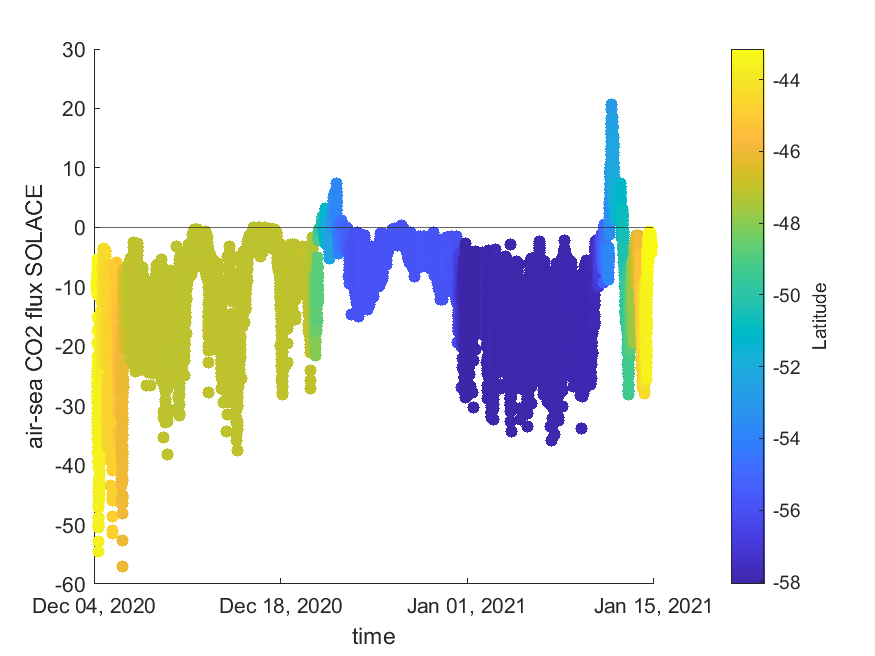
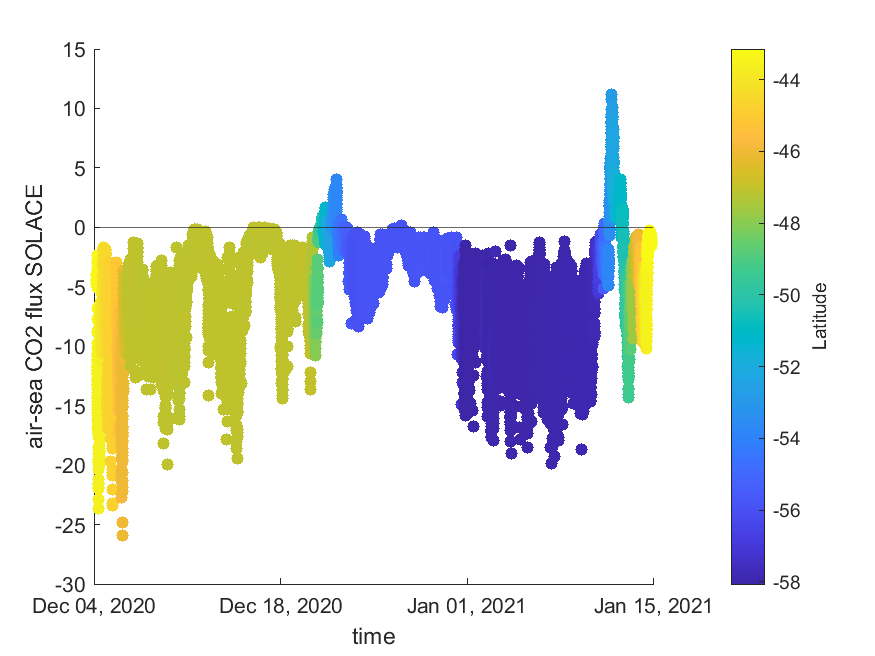
more work

diff --git a/SOTS2021_UW_CO2.m b/SOTS2021_UW_CO2.m
@@ -1,7 +1,9 @@
 file = 'C:/Users/cawynn/cloudstor/Air sea flux manuscript/IN2021_V02 SOTS/IMOS_SOOP-CO2_GST_20210414T121956Z_VLMJ_FV01.nc';
 DfCO2_SOTS2021 = ncread(file, 'DfCO2');
 DfCO2_QC_SOTS2021 = ncread(file, 'DfCO2_quality_control');
-u_SOTS2021 = ncread(file,'WSPD');
+u_SOTS2021 = ncread(file,'WSPD'); % this is at 24.7m and needs correcting to 10m, as per Sutton, 2017
+u10_SOTS2021 = u_SOTS2021/(1+(sqrt(0.0011)/0.4)*log(24.7/10));
+
 lat_SOTS2021 = ncread(file, 'LATITUDE');
 lon_SOTS2021 = ncread(file, 'LONGITUDE');
 pressure_SOTS2021 = ncread(file, 'Press_ATM');
@@ -16,7 +18,7 @@ sss_SOTS2021 = S_SOTS2021;
 sst_SOTS2021 = T_SOTS2021;
 
 
-[F_CO2_SOTS2021]=FCO2_CWE(DfCO2_SOTS2021,T_SOTS2021,S_SOTS2021,u_SOTS2021);
+[F_CO2_SOTS2021]=FCO2_CWE(DfCO2_SOTS2021,T_SOTS2021,S_SOTS2021,u10_SOTS2021);
 
 
 % fig = figure()
@@ -36,3 +38,23 @@ c=colorbar;
 c.Label.String = 'Air sea flux';
 title('SOTS 2021 UW data')
 caxis([-70 30])
+
+figure()
+subplot(2,1,1)
+title('SOTS 2021 UW data')
+yyaxis left
+plot(time_SOTS2021,lat_SOTS2021,'-r')
+ylabel('Latitude')
+yyaxis right
+plot(time_SOTS2021,lon_SOTS2021,'-b')
+ylabel('Longitude')
+xlabel('Time')
+
+subplot(2,1,2)
+yyaxis left
+plot(time_SOTS2021,F_CO2_SOTS2021,'ok','MarkerSize',2)
+ylabel('Air-sea CO2 flux mmol m^-2 d^-1')
+yyaxis right
+plot(time_SOTS2021,T_SOTS2021,'-b')
+ylabel('SST')
+xlabel('Time')

diff --git a/air_seaflux_floats.m b/air_seaflux_floats.m
@@ -168,13 +168,37 @@ for i = 1:fs(2)
 end
 
 
+% figure()
+% geoscatter(fCO2_float.lat, fCO2_float.lon, datenum(fCO2_float.time)/4000, fCO2_float.flux,'^')
+% hold on
+% geoscatter(lat_SOLACE, lon_SOLACE, datenum(time_SOLACE)/6000, F_CO2_SOLACE,'.')
+% colorbar
+
+% figure()
+% scatter(fCO2_float.time, fCO2_float.flux,'o')
+
 figure()
-geoscatter(fCO2_float.lat, fCO2_float.lon, datenum(fCO2_float.time)/4000, fCO2_float.flux,'^')
+subplot(2,1,1)
+title('SOTS float and SOLACE UW data')
+yyaxis left
+plot(time_float,lat,'-b')
 hold on
-geoscatter(lat_SOLACE, lon_SOLACE, datenum(time_SOLACE)/6000, F_CO2_SOLACE,'.')
-colorbar
+plot(time_SOLACE,lat_SOLACE,'--b')%,'MarkerSize',2)
+ylabel('Latitude')
+hold off
+yyaxis right
+plot(time_float,lon,'-r')
+hold on
+plot(time_SOLACE,lon_SOLACE,'--r')%,'MarkerSize',2)
+ylabel('Longitude')
+hold off
+xlabel('Time')
 
-figure()
-scatter(fCO2_float.time, fCO2_float.flux,'o')
-
-
+subplot(2,1,2)
+yyaxis left
+plot(fCO2_float.time, fCO2_float.flux,'ob','MarkerSize',4)
+hold on
+plot(time_SOLACE,F_CO2_SOLACE,'-r')
+ylabel('Air-sea CO2 flux mmol m^-2 d^-1')
+hold off
+xlabel('Time')

diff --git a/SOTS2020_UW_CO2.m b/SOTS2020_UW_CO2.m
@@ -1,7 +1,9 @@
 file = 'C:/Users/cawynn/cloudstor/Air sea flux manuscript/IN2020_V09 SOTS/IMOS_SOOP-CO2_GST_20200827T030011Z_VLMJ_FV01.nc';
 DfCO2_SOTS2020 = ncread(file, 'DfCO2');
 DfCO2_QC_SOTS2020 = ncread(file, 'DfCO2_quality_control');
-u_SOTS2020 = ncread(file,'WSPD');
+u_SOTS2020 = ncread(file,'WSPD'); % this is at 24.7m and needs correcting to 10m, as per Sutton, 2017
+u10_SOTS2020 = u_SOTS2020/(1+(sqrt(0.0011)/0.4)*log(24.7/10));
+
 lat_SOTS2020 = ncread(file, 'LATITUDE');
 lon_SOTS2020 = ncread(file, 'LONGITUDE');
 pressure_SOTS2020 = ncread(file, 'Press_ATM');
@@ -17,7 +19,7 @@ sst_SOTS2020 = T_SOTS2020;
 
 
 
-[F_CO2_SOTS2020]=FCO2_CWE(DfCO2_SOTS2020,T_SOTS2020,S_SOTS2020,u_SOTS2020);
+[F_CO2_SOTS2020]=FCO2_CWE(DfCO2_SOTS2020,T_SOTS2020,S_SOTS2020,u10_SOTS2020);
 
 
 % fig = figure()

diff --git a/UW_plots.m b/UW_plots.m
@@ -1,0 +1,31 @@
+figure()
+subplot(2,1,1)
+title('SOTS 2020 & 2021 UW data')
+yyaxis left
+plot(time_SOTS2021,lat_SOTS2021,'-r')
+hold on
+plot(time_SOTS2020,lat_SOTS2020,'--r')
+hold off
+ylabel('Latitude')
+yyaxis right
+plot(time_SOTS2021,lon_SOTS2021,'-b')
+hold on
+plot(time_SOTS2020,lon_SOTS2020,'--b')
+hold off
+ylabel('Longitude')
+xlabel('Time')
+
+subplot(2,1,2)
+yyaxis left
+plot(time_SOTS2021,F_CO2_SOTS2021,'ok','MarkerSize',2)
+hold on
+plot(time_SOTS2020,F_CO2_SOTS2020,'.b','MarkerSize',4)
+hold off
+ylabel('Air-sea CO2 flux mmol m^-2 d^-1')
+yyaxis right
+plot(time_SOTS2021,T_SOTS2021,'-b')
+hold on
+plot(time_SOTS2020,T_SOTS2020,'--b')
+hold off
+ylabel('SST')
+xlabel('Time')

diff --git a/TEMPO_UW_CO2.m b/TEMPO_UW_CO2.m
@@ -1,7 +1,8 @@
 file = 'C:/Users/cawynn/cloudstor/Air sea flux manuscript/IN2021_V01 TEMPO/IMOS_SOOP-CO2_GST_20210129T004303Z_VLMJ_FV01.nc';
 DfCO2 = ncread(file, 'DfCO2');
 DfCO2_QC = ncread(file, 'DfCO2_quality_control');
-u = ncread(file,'WSPD');
+u = ncread(file,'WSPD'); % this is at 24.7m and needs correcting to 10m, as per Sutton, 2017
+u10 = u/(1+(sqrt(0.0011)/0.4)*log(24.7/10));
 lat = ncread(file, 'LATITUDE');
 pressure = ncread(file, 'Press_ATM');
 press_equil = ncread(file, 'Press_Equil');
@@ -25,7 +26,7 @@ sst = T;
 % %DpCO2 = pCO2_sw - pCO2_atm;
 
 
-[F_CO2]=FCO2_CWE(DfCO2,T,S,u);
+[F_CO2]=FCO2_CWE(DfCO2,T,S,u10);
 
 
 fig = figure()

diff --git a/Mooring_flux.m b/Mooring_flux.m
@@ -5,3 +5,7 @@
 % stitch CSV files together,
 % calculate flux from dfCO2, SST and S in the files
 % find windspeed on thredd server (from the mooring)
+% translate windspeed from whichever mooring height to 10m
+% with Sutton, 2017 equation
+% u10[m s-1] = u [m s-1] / (1 + (sqrt(0.0011)/0.4) * ln(Z/10))
+% Z is wind anemometer height [m]
